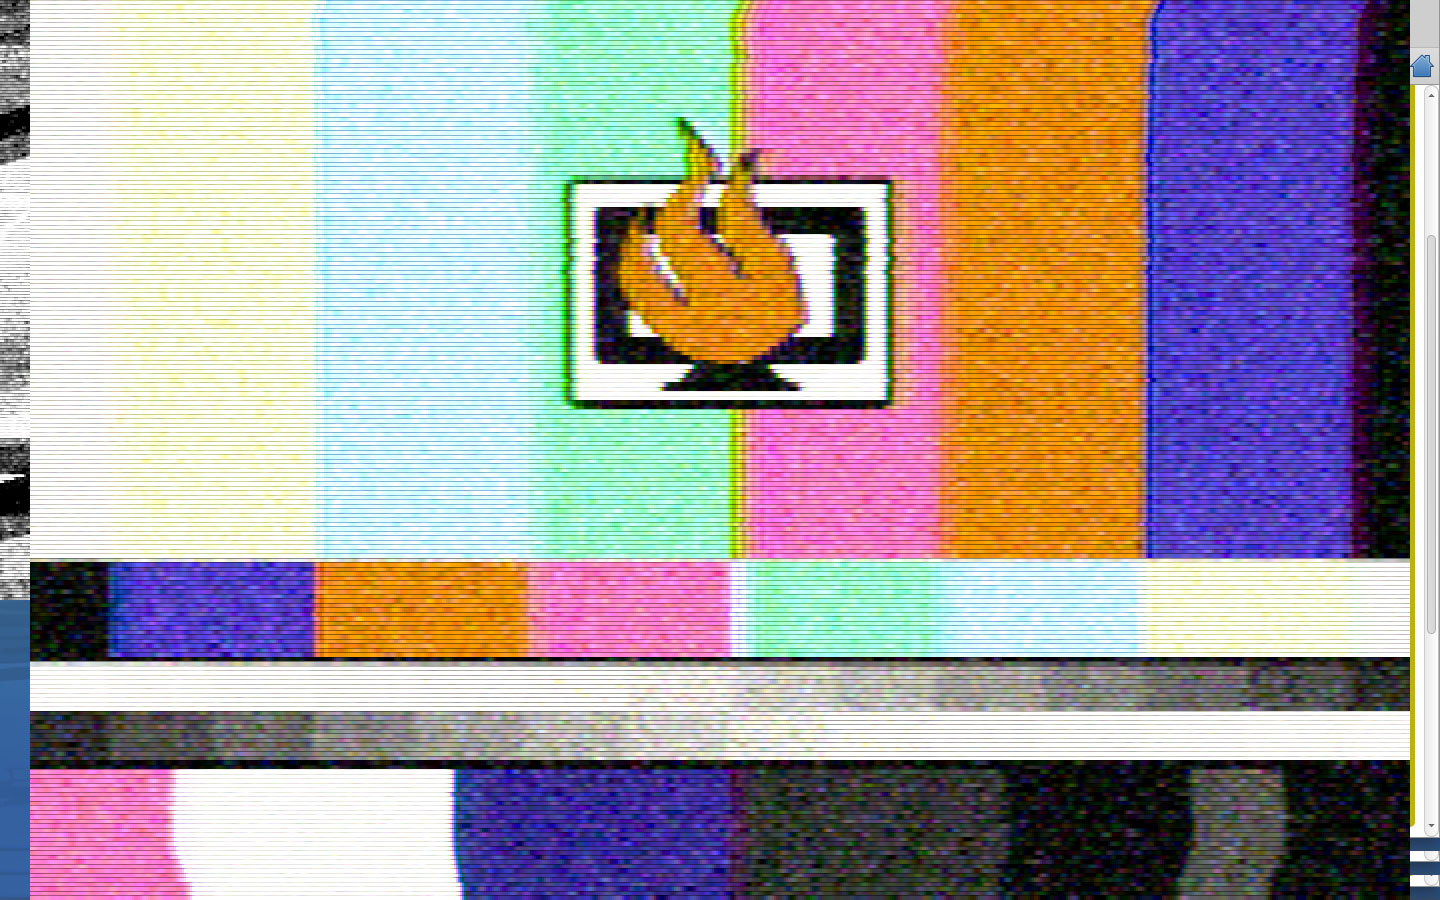
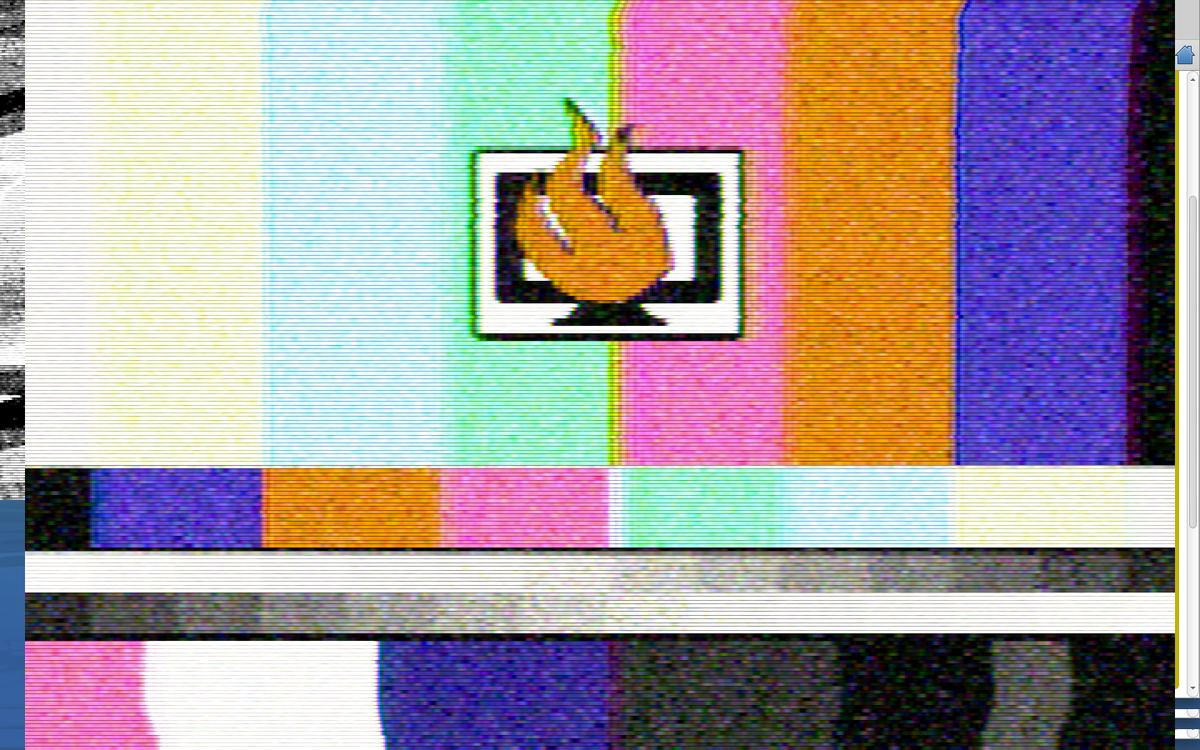
[posts] Migrate XAnalogTV post from old site
Restore the full article from the Wayback Machine copy, keep the original
WordPress comments, and re-encode screenshots as web-optimized JPEGs.

diff --git a/static/css/style.css b/static/css/style.css
@@ -199,6 +199,15 @@ pre code {
     font-size: 0.9375rem;
 }
 
+/* Separate the end-of-post block (tags, comments) from the body text. */
+.tags, #disqus_thread {
+    margin-top: 2.5rem;
+}
+
+.tags + #disqus_thread {
+    margin-top: 0;
+}
+
 .meta a, .tags a {
     color: var(--text-muted);
 }

diff --git a/content/posts/fixing-xanalogtv.md b/content/posts/fixing-xanalogtv.md
@@ -8,4 +8,147 @@ categories = ["Articles"]
 image = "/img/xanalogtv_cutoff.jpg"
 +++
 
-This post is currently being migrated from the old location, [click here to view the old one on The Wayback Machine](https://web.archive.org/web/20160307233103/http://www.bcastell.com/tech-articles/fixing-the-xanalogtv-screensaver/).
+A few days ago, I discovered the awesome XAnalogTV screensaver included with [XScreenSaver](https://www.jwz.org/xscreensaver/). I was very impressed with the visuals, which include a very accurate simulation of a [conventional "tube" television](https://en.wikipedia.org/wiki/Cathode_ray_tube) implementing the [analog NTSC TV standard](https://en.wikipedia.org/wiki/NTSC). There was just one problem - [I couldn't get XAnalogTV to fill my screen](https://superuser.com/questions/471300/how-can-i-make-the-xanalogtv-xscreensaver-fill-my-screen).
+
+In the above screenshot, pay attention to the edges of the screen. For some reason, the way the scaling/clipping was implemented caused the clipped portions on the screen's edges to simply not be drawn (as they should be drawn or cleared to pure black). This causes the screensaver to look quite odd, especially when there's perfectly drawn digital graphics being rendered behind the wonderful analog "snow". I found this only happens when the aspect ratio of the XAnalogTV window was very different than 4:3. Thus, in my quest for beautifully simulated analog graphics, I set out to fix this error.
+
+I set out to download the source code from [Jamie Zawinski's website](https://www.jwz.org/xscreensaver/download.html), but at the time I wrote the post, the file he uploaded was corrupted (it has since been fixed). My next stop to find the source code lead me to the [Ubuntu Package Repository](http://packages.ubuntu.com/precise/xscreensaver), where I was able to download the source code (`xscreensaver_5.15.orig.tar.gz`). If you have a different Linux distribution, you should be able to get the source code from the distribution repository's website.
+
+After extracting the source code, I went into the source directory, and called `./configure`. After it figured out I was missing a bunch of packages, I got all of the build dependencies via `apt`, and re-ran `./configure` successfully:
+
+```bash
+sudo apt-get build-dep xscreensaver
+./configure
+```
+
+Now, it was time to start analyzing the source code. I figured the best area to start looking at would be the code that gets executed when the screen is resized from `xanalogtv.c`:
+
+```c
+static void
+xanalogtv_reshape (Display *dpy,   Window window, void *closure,
+                   unsigned int w, unsigned int h)
+{
+    struct state *st = (struct state *) closure;
+    analogtv_reconfigure(st->tv);
+}
+```
+
+So, XAnalogTV uses helper functions embedded in another file, `analogtv.c`. Looking at the `analogtv_reconfigure()` function, all it does is pass an object to the `analogtv_configure()` function. There, I found the following code near the beginning of the function (comments removed):
+
+```c
+    float percent = 0.15;  /* jwz: 20% caused severe top/bottom clipping
+                                   in Pong on 1680x1050 iMac screen.    */
+    float min_ratio = 4.0 / 3.0 * (1 - percent);
+    float max_ratio = 4.0 / 3.0 * (1 + percent);
+    float ratio;
+    float height_snap=0.025;
+
+    hlim = it->xgwa.height;
+    wlim = it->xgwa.width;
+    ratio = wlim / (float) hlim;
+
+    if (wlim < 266 || hlim < 200)
+    {
+        wlim = 266;
+        hlim = 200;
+# ifdef DEBUG
+        fprintf (stderr,
+                 "size: minimal: %dx%d in %dx%d (%.3f < %.3f < %.3f)\n",
+                 wlim, hlim, it->xgwa.width, it->xgwa.height,
+                 min_ratio, ratio, max_ratio);
+# endif
+    }
+    else if (ratio > min_ratio && ratio < max_ratio)
+    {
+# ifdef DEBUG
+        fprintf (stderr,
+                 "size: close enough: %dx%d (%.3f < %.3f < %.3f)\n",
+                 wlim, hlim, min_ratio, ratio, max_ratio);
+# endif
+    }
+    else if (ratio > max_ratio)
+    {
+        wlim = hlim*max_ratio;
+# ifdef DEBUG
+        fprintf (stderr,
+                 "size: center H: %dx%d in %dx%d (%.3f < %.3f < %.3f)\n",
+                 wlim, hlim, it->xgwa.width, it->xgwa.height,
+                 min_ratio, ratio, max_ratio);
+# endif
+    }
+    else /* ratio < min_ratio */
+    {
+        hlim = wlim/min_ratio;
+# ifdef DEBUG
+        fprintf (stderr,
+                 "size: center V: %dx%d in %dx%d (%.3f < %.3f < %.3f)\n",
+                 wlim, hlim, it->xgwa.width, it->xgwa.height,
+                 min_ratio, ratio, max_ratio);
+# endif
+    }
+```
+
+From the above code, you can see that the author has constrained the displayed picture's aspect ratio to be within +/- 15% of a typical 4:3 NTSC TV. This is fine, although something must be happening in the draw function to prevent the clipped parts of the screen from actually being updated/blitted.
+
+As a temporary fix, I modified XAnalogTV to stretch to the window/screen resolution by commenting out lines 328 and 338 in `analogtv.c`, which are listed below (respectively):
+
+```c
+      wlim = hlim*max_ratio;    /* Comment these two lines out (or remove them entirely) */
+      hlim = wlim/min_ratio;    /* to prevent XAnalogTV from reshaping the display.      */
+```
+
+After that, I recompiled xscreensaver using `make`. Instead of calling `make install`, however, I simply copied my newly compiled version of the XAnalogTV binary overtop of the older one (which was found in `/usr/lib/xscreensaver/xanalogtv`):
+
+```bash
+cp /usr/lib/xscreensaver/xanalogtv /usr/lib/xscreensaver/xanalogtv.bak
+sudo cp ./hacks/xanalogtv /usr/lib/xscreensaver/
+```
+
+After restarting the xscreensaver daemon, the screensaver now works as expected:
+
+<img src="/img/xanalogtv_full.jpg" alt="XAnalogTV with correct scaling" width="1200" height="750" loading="lazy" style="display: block; margin: 1.5rem auto 0.5rem;">
+
+*After making the fix to the code, the XAnalogTV screensaver will properly stretch-to-fit any display or aspect ratio.*
+
+--------
+
+## Original Comments
+
+I was able to recover the original comments from this article via [the Wayback Machine](https://web.archive.org/web/20160307233103/http://www.bcastell.com/tech-articles/fixing-the-xanalogtv-screensaver/):
+
+> **Dan Schmidt** &middot; 2012-09-14
+>
+> Finally - sombody found the solution! Much thanks. However, there was no space, it's "wlim = hlim\*max_ratio;"
+>
+> > **Brandon Castellano** &middot; 2012-09-14
+> >
+> > Thank you for pointing that out, Dan. I've updated article accordingly.
+
+> **lexi** &middot; 2012-10-21
+>
+> thats great, those visible borders are really annoying! i cant work out this make thing though :(
+>
+> > **Brandon Castellano** &middot; 2012-10-21
+> >
+> > Hi Lexi;
+> >
+> > Sounds like you might not have some of the required build dependencies. Check the output from make, and see if it says anything regarding missing libraries or header files (indicating you might need the -dev versions of some packages).
+> >
+> > Thanks,<br>
+> > Brandon
+
+> **Matthew R Giese** &middot; 2012-10-21
+>
+> I enjoyed reading the write-up, hope I can discover a lot more articles like this one. Thanks for posting.
+
+> **harpreet** &middot; 2013-10-13
+>
+> Thank you so much.<br>
+> That just did the job.
+
+> **harpreet** &middot; 2013-12-26
+>
+> can you please also fix the<br>
+> BSOD screensaver.
+
+
